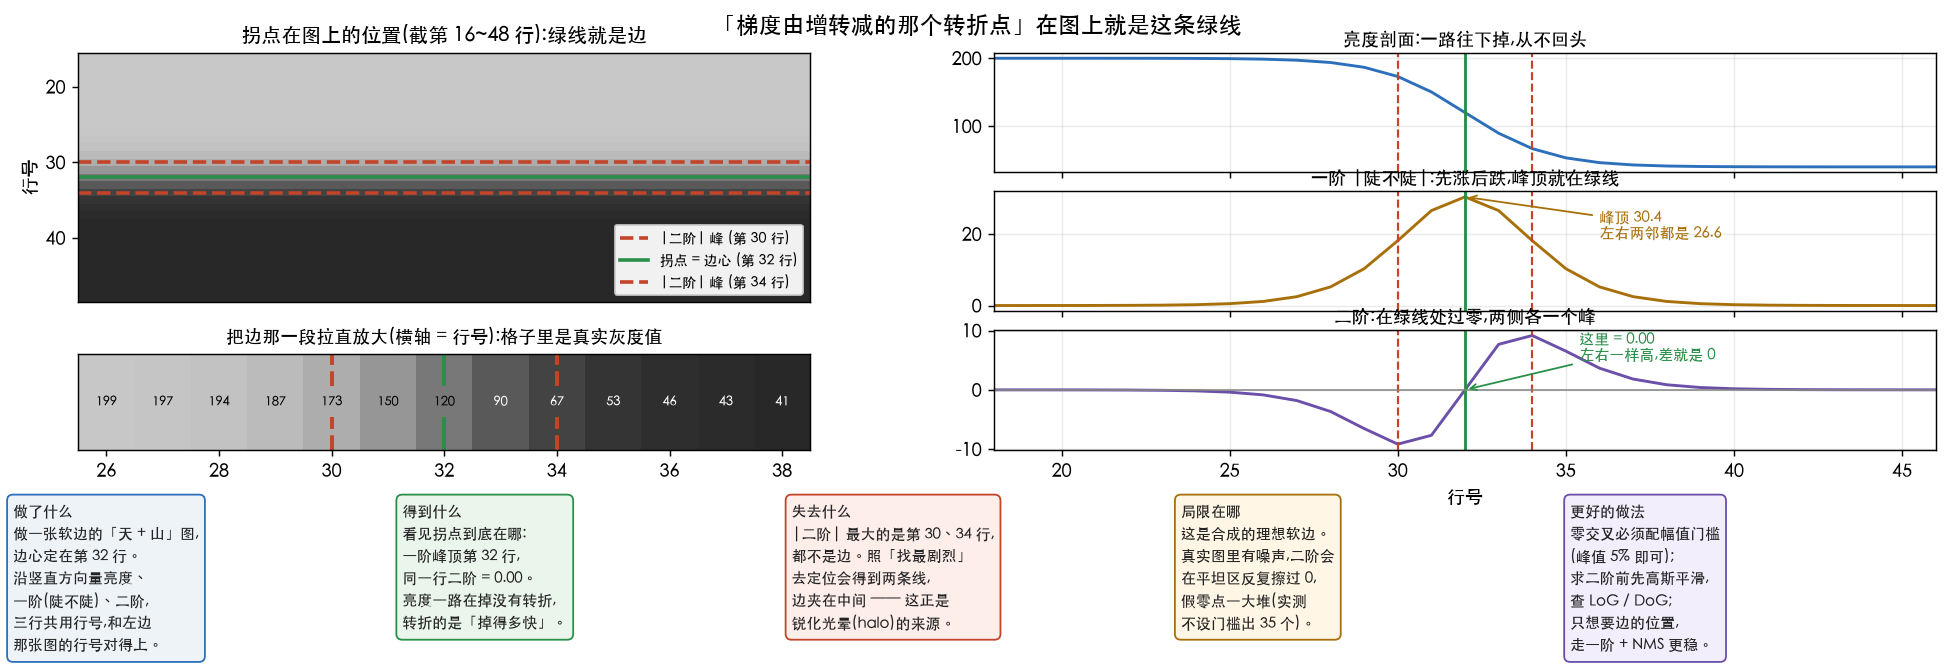
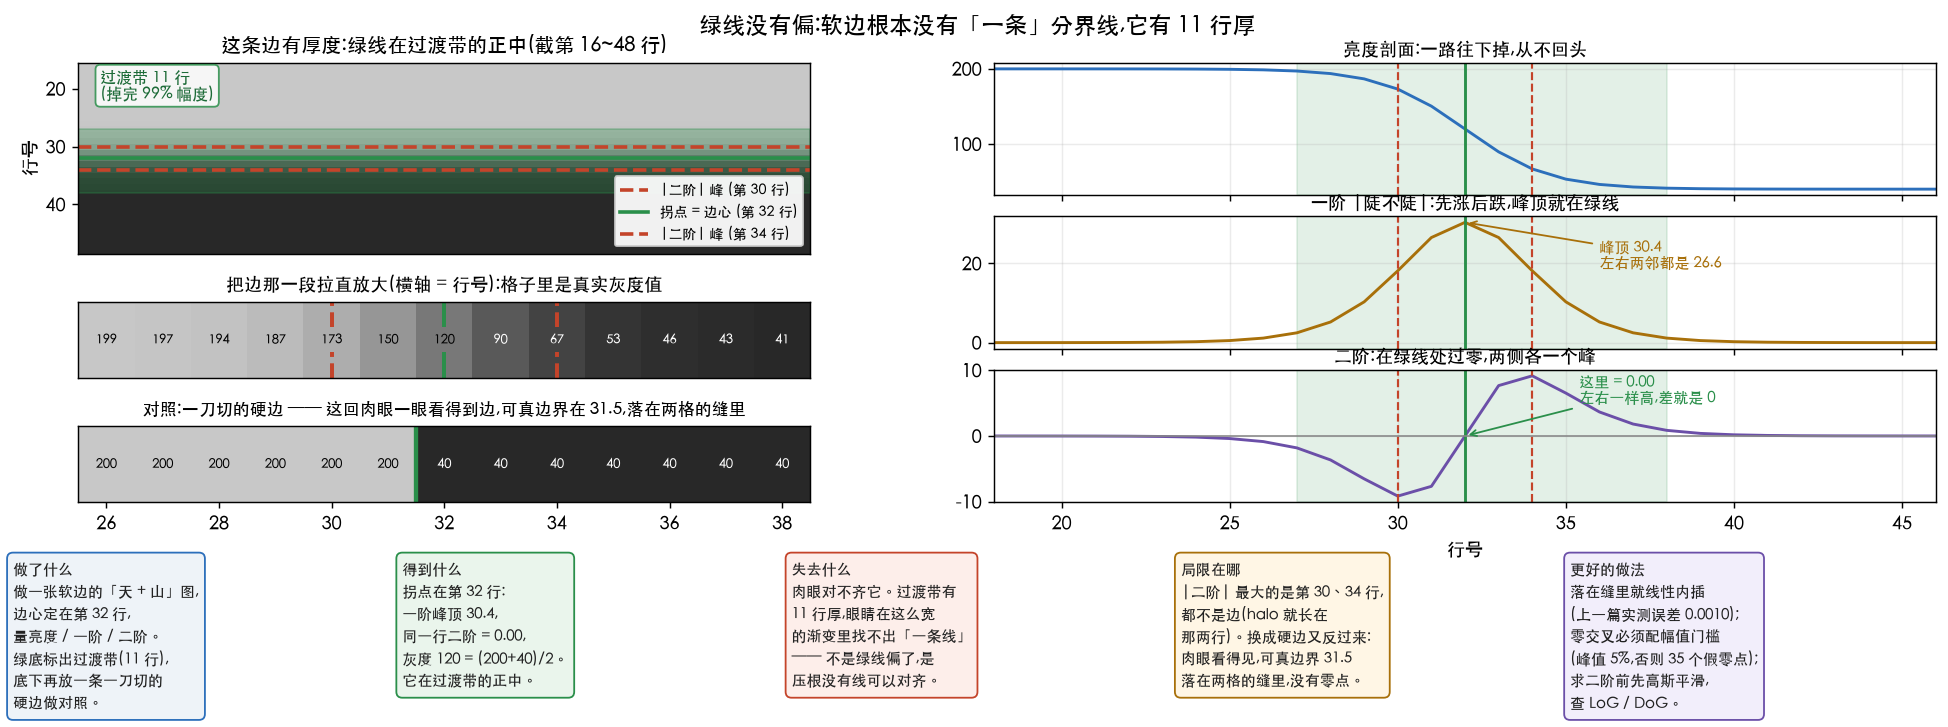
把过渡带画出来:绿线没偏,是软边根本没有「一条」分界线
上一版配图把拐点画成孤零零一条绿线,看图的人会觉得它没压在明暗交界上。
量了一下:这条边掉完 99% 幅度要从第 27 行到第 38 行,共 11 行厚。
眼睛在 11 行宽的渐变里找不出「一条线」—— 不是绿线偏了,是没有线可以对齐。
数值上它没错:(200+40)/2 = 120,第 32 行灰度正好 120.0。

配图改动:
- 2D 图和三行剖面都用绿底标出过渡带,绿线显然在带的正中
- 底下加一条一刀切的硬边做对照,绿线精确压在 200|40 那道缝上
- 软边条去掉 x 刻度(会撞上硬边条的标题),两条对齐共用下面那组

顺带记下一个被实测推翻的猜测:原以为是人眼感知非线性造成的偏移,
按 CIE L* 算感知中点也落在第 32 行,偏 0 行。不是感知问题,写进文档免得再走。

由此带出一张互补表:软边肉眼看不出、零点却精确落格;硬边肉眼一眼看见、
真边界 31.5 却落在两格的缝里没有零点 —— 所以零交叉必须带线性内插。

diff --git a/Python-Prototyping/Ch03_Spatial_Filtering/23_sharpening.py b/Python-Prototyping/Ch03_Spatial_Filtering/23_sharpening.py
@@ -648,6 +648,24 @@ def inflection_stats():
     return col, g1, g2, infl, lo, hi
 
 
+def transition_band(col, pct: float = 0.99):
+    """边的「过渡带」有多宽 —— 掉完 pct 的幅度用了从第几行到第几行。
+
+    为什么要算这个:软边根本没有肉眼可辨的「一条线」,
+    有的是一条带。不把带画出来,单画一条拐点线会让人觉得「它没对齐」。
+    """
+    hi, lo = col.max(), col.min()
+    span = hi - lo
+    a = int(np.argmax(col < hi - span * (1 - pct)))
+    b = int(np.argmax(col < lo + span * (1 - pct)))
+    return a, b
+
+
+def hard_edge_column(n: int = 64):
+    """一刀切的硬边,跳变发生在第 31 行和第 32 行之间 —— 真边界在 31.5。"""
+    return np.where(np.arange(n) < EDGE_CENTER, 200.0, 40.0)
+
+
 def demo_inflection() -> None:
     hr("2d. 拐点在哪儿:一阶最陡的那一格,正是二阶过零的那一格")
     col, g1, g2, infl, lo, hi = inflection_stats()
@@ -667,6 +685,25 @@ def demo_inflection() -> None:
     print(f"\n  |二阶| 的两个峰在第 {lo} 行和第 {hi} 行,中点 = {(lo + hi) / 2:.1f}")
     print(f"  —— 锐化时被推得最狠的就是这两行,光晕(halo)长在离边心各 {infl - lo} 格的地方。")
 
+    print("\n  这条边根本没有「一条线」,它有厚度:")
+    for pct in (0.90, 0.95, 0.99):
+        a, b = transition_band(col, pct)
+        print(f"    掉完 {pct:.0%} 幅度 → 第 {a} 行到第 {b} 行,共 {b - a} 行")
+    a99, b99 = transition_band(col, 0.99)
+    print(f"  肉眼要在 {b99 - a99} 行宽的渐变里找「分界」,本来就找不到 ——")
+    print("  拐点在带的正中,但带太宽,中心不显眼。数值上它没错:")
+    print(f"    (200+40)/2 = 120.0 → 第 {int(np.argmin(np.abs(col - 120)))} 行,该行灰度 {col[infl]:.1f}")
+
+    print("\n  换成一刀切的硬边,肉眼立刻找得到边,可零点反而没落在格子上:")
+    hard = hard_edge_column()
+    h1, h2 = d1d(hard, [-0.5, 0, 0.5]), d1d(hard, [1, -2, 1])
+    print(f"    {'行':>6} | {'亮度':>7} | {'一阶':>8} | {'二阶':>9}")
+    for i in range(int(EDGE_CENTER) - 2, int(EDGE_CENTER) + 2):
+        print(f"    {i:>6} | {hard[i]:>7.1f} | {h1[i]:>8.2f} | {h2[i]:>9.2f}")
+    print(f"  二阶从 {h2[int(EDGE_CENTER)-1]:.0f} 直接跳到 {h2[int(EDGE_CENTER)]:.0f},中间没有 0 ——")
+    print(f"  真边界在 {EDGE_CENTER - 0.5},落在两格的缝里,只能靠内插找回来。")
+    print("  **肉眼能对齐的边,算法要内插;算法能精确落点的边,肉眼反而看不出。**")
+
 
 def save_inflection_figure(out_path: Path) -> None:
     """回答「拐点到底在图上哪个位置」—— 2D 图和剖面画在一起,行号对得上。"""
@@ -674,12 +711,14 @@ def save_inflection_figure(out_path: Path) -> None:
     img = sky_mountain_2d()
     n = img.shape[0]
 
-    fig = plt.figure(figsize=(15.2, 5.6))
+    a99, b99 = transition_band(col, 0.99)
+    hard = hard_edge_column(n)
+    fig = plt.figure(figsize=(15.2, 6.2))
     # bottom 要在这儿给死:显式设过边界的 gridspec 不吃 four_questions 里的
     # subplots_adjust,不给的话图和横幅之间会空出一大条
     outer = fig.add_gridspec(1, 2, width_ratios=[1.05, 1.35], wspace=0.22,
                              left=0.045, right=0.985, top=0.90, bottom=0.355)
-    gl = outer[0, 0].subgridspec(2, 1, hspace=0.30, height_ratios=[2.6, 1])
+    gl = outer[0, 0].subgridspec(3, 1, hspace=0.42, height_ratios=[2.5, 1, 1])
     gr = outer[0, 1].subgridspec(3, 1, hspace=0.16)
 
     ax = fig.add_subplot(gl[0])
@@ -692,7 +731,12 @@ def save_inflection_figure(out_path: Path) -> None:
                           (infl, "#2a8f4a", "-", f"拐点 = 边心 (第 {infl} 行)"),
                           (hi, "#c4442a", "--", f"|二阶| 峰 (第 {hi} 行)")):
         ax.axhline(y, color=c, ls=ls, lw=2.0, label=lab)
-    ax.set_title(f"拐点在图上的位置(截第 {top}~{bot - 1} 行):绿线就是边", fontsize=11)
+    ax.axhspan(a99, b99, color="#2a8f4a", alpha=0.30, zorder=0)
+    ax.annotate(f"过渡带 {b99 - a99} 行\n(掉完 99% 幅度)", xy=(0.03, 0.88),
+                xycoords="axes fraction", fontsize=8.6, color="#1d6b38",
+                va="center", ha="left",
+                bbox=dict(boxstyle="round,pad=0.3", fc="white", ec="#2a8f4a", alpha=0.85))
+    ax.set_title(f"这条边有厚度:绿线在过渡带的正中(截第 {top}~{bot - 1} 行)", fontsize=11)
     ax.set_ylabel("行号")
     ax.set_xticks([])
     ax.legend(fontsize=7.8, loc="lower right", framealpha=0.94)
@@ -710,9 +754,22 @@ def save_inflection_figure(out_path: Path) -> None:
         axz.text(i, 0.5, f"{col[i]:.0f}", ha="center", va="center", fontsize=7.2,
                  color="black" if col[i] > 110 else "white")
     axz.set_yticks([])
-    axz.set_xticks(range(lo_z, hi_z, 2))
+    axz.set_xticks([])
     # xlabel 会被底部横幅压住,横轴含义写进标题
     axz.set_title("把边那一段拉直放大(横轴 = 行号):格子里是真实灰度值", fontsize=10)
+
+    axh = fig.add_subplot(gl[2])
+    axh.imshow(hard[lo_z:hi_z][None, :], cmap="gray", vmin=0, vmax=255,
+               interpolation="nearest", aspect="auto",
+               extent=(lo_z - 0.5, hi_z - 0.5, 0, 1))
+    axh.axvline(EDGE_CENTER - 0.5, color="#2a8f4a", lw=2.4)
+    for i in range(lo_z, hi_z):
+        axh.text(i, 0.5, f"{hard[i]:.0f}", ha="center", va="center", fontsize=7.2,
+                 color="black" if hard[i] > 110 else "white")
+    axh.set_yticks([])
+    axh.set_xticks(range(lo_z, hi_z, 2))
+    axh.set_title("对照:一刀切的硬边 —— 这回肉眼一眼看得到边,"
+                  f"可真边界在 {EDGE_CENTER - 0.5},落在两格的缝里", fontsize=9.6)
 
     x = np.arange(n)
     rows = [(col, "亮度剖面:一路往下掉,从不回头", "#2c6fbb"),
@@ -721,6 +778,7 @@ def save_inflection_figure(out_path: Path) -> None:
     axes = [fig.add_subplot(gr[i]) for i in range(3)]
     for k, (ax_, (data, title, color)) in enumerate(zip(axes, rows)):
         ax_.plot(x, data, color=color, lw=1.6)
+        ax_.axvspan(a99, b99, color="#2a8f4a", alpha=0.13, zorder=0)
         ax_.axvline(infl, color="#2a8f4a", lw=1.6)
         for y in (lo, hi):
             ax_.axvline(y, color="#c4442a", ls="--", lw=1.2)
@@ -742,33 +800,28 @@ def save_inflection_figure(out_path: Path) -> None:
                      fontsize=8.4, color="#2a8f4a",
                      arrowprops=dict(arrowstyle="->", color="#2a8f4a", lw=1.0))
 
-    fig.suptitle("「梯度由增转减的那个转折点」在图上就是这条绿线", fontsize=13, y=0.955)
+    fig.suptitle("绿线没有偏:软边根本没有「一条」分界线,它有 "
+                 f"{b99 - a99} 行厚", fontsize=13, y=0.962)
     four_questions(fig,
         "做一张软边的「天 + 山」图,\n"
-        f"边心定在第 {infl} 行。\n"
-        "沿竖直方向量亮度、\n一阶(陡不陡)、二阶,\n"
-        "三行共用行号,和左边\n那张图的行号对得上。",
-        "看见拐点到底在哪:\n"
-        f"一阶峰顶第 {infl} 行,\n"
-        f"同一行二阶 = {g2[infl]:.2f}。\n"
-        "亮度一路在掉没有转折,\n"
-        "**转折的是「掉得多快」**。",
+        f"边心定在第 {infl} 行,\n"
+        "量亮度 / 一阶 / 二阶。\n"
+        f"绿底标出过渡带({b99 - a99} 行),\n"
+        "底下再放一条一刀切的\n硬边做对照。",
+        f"拐点在第 {infl} 行:\n"
+        f"一阶峰顶 {abs(g1[infl]):.1f},\n"
+        f"同一行二阶 = {g2[infl]:.2f},\n"
+        f"灰度 {col[infl]:.0f} = (200+40)/2。\n"
+        "**它在过渡带的正中**。",
+        f"肉眼对不齐它。过渡带有\n{b99 - a99} 行厚,"
+        "眼睛在这么宽\n的渐变里找不出「一条线」\n—— "
+        "**不是绿线偏了,是\n压根没有线可以对齐**。",
         f"|二阶| 最大的是第 {lo}、{hi} 行,\n"
-        "**都不是边**。照「找最剧烈」\n"
-        "去定位会得到两条线,\n"
-        "边夹在中间 —— 这正是\n"
-        "锐化光晕(halo)的来源。",
-        "这是合成的理想软边。\n"
-        "真实图里有噪声,二阶会\n"
-        "在平坦区反复擦过 0,\n"
-        "**假零点一大堆**(实测\n"
-        "不设门槛出 35 个)。",
-        "零交叉必须配幅值门槛\n"
-        "(峰值 5% 即可);\n"
-        "求二阶前先高斯平滑,\n"
-        "查 LoG / DoG;\n"
-        "只想要边的位置,\n"
-        "走一阶 + NMS 更稳。",
+        "**都不是边**(halo 就长在\n那两行)。换成硬边又反过来:\n"
+        f"肉眼看得见,可真边界 {EDGE_CENTER - 0.5}\n落在两格的缝里,没有零点。",
+        "落在缝里就线性内插\n(上一篇实测误差 0.0010);\n"
+        "零交叉必须配幅值门槛\n(峰值 5%,否则 35 个假零点);\n"
+        "求二阶前先高斯平滑,\n查 LoG / DoG。",
         y=0.285, bottom=0.355)
     fig.savefig(out_path, dpi=130, bbox_inches="tight", facecolor="white")
     plt.close(fig)

diff --git a/Documents/05-spatial-filtering/03-sharpening.md b/Documents/05-spatial-filtering/03-sharpening.md
@@ -14,7 +14,7 @@
 > | :--- | :--- |
 > | **只有 10 分钟** | `先讲人话` + `八、小结` |
 > | **第一遍学** | 再加 `一、先看懂两个导数` `二、拉普拉斯` `三、USM(反锐化掩模)` `六、代价二:放大噪声`(先降噪再锐化) —— 锐化的道理和最重要的那条实践规矩 |
-> | **对着图有疑问** | `一、先看懂两个导数` 里的 `一阶根本不看「自己那一格」` `核中间为什么是 0`;`二、拉普拉斯` 里的 `它响应最强的地方,恰恰不是边` |
+> | **对着图有疑问** | `一、先看懂两个导数` 里的 `一阶根本不看「自己那一格」` `核中间为什么是 0`;`二、拉普拉斯` 里的 `它响应最强的地方,恰恰不是边` `绿线看着没对齐?` |
 | **想知道核哪来的** | `二、拉普拉斯` 里的 `这个核不是设计出来的` `为什么二阶能直接相加,一阶不行` `−8 那个版本其实有点糙` |
 > | **踩坑时回来查** | `四、USM 和拉普拉斯是一回事` `五、代价一:过冲(halo)` `七、一阶导数:Sobel 梯度` —— 第七节等学到边缘检测时再看也行 |
 
@@ -393,6 +393,55 @@ c = −(a + b) = −(−b + b) = 0
 | 看**零点** | 边的正中(第 32 行) | 定位 —— 零交叉检测 |
 
 **一个算子,两种读法,读错了位置就偏半格。**
+
+### 绿线看着没对齐?那条边有 11 行厚
+
+对着上面那张图,很容易冒出一个疑问:**绿线画在第 32 行,可图上的明暗交界好像不在那儿。**
+
+这不是错觉,但也不是绿线偏了。量一量那条边有多厚:
+
+| 掉完多少幅度 | 从第几行到第几行 | 共几行 |
+| :--- | :--- | ---: |
+| 90% | 30 → 35 | 5 行 |
+| 95% | 29 → 36 | 7 行 |
+| **99%** | **27 → 38** | **11 行** |
+
+**这条边有 11 行厚。** 你的眼睛在一条 11 行宽的渐变里找「分界线」,
+本来就找不到 —— **不是绿线偏了,是压根没有一条线可以让它对齐。**
+
+数值上它一点没错:`(200 + 40) / 2 = 120`,而第 32 行的灰度正好是 **120.0**。
+
+> **一个被实测推翻的猜测**:我本来怀疑是人眼感知非线性(暗部被压缩)造成的偏移。
+> 按 CIE L\* 算了一遍:天 L\*=80.6、山 L\*=16.1,感知中点 L\*=48.4 —— **也落在第 32 行,偏 0 行**。
+> **不是感知的问题,就是过渡带太宽。** 记在这儿免得别人再往这条路上走。
+
+### 反过来,硬边肉眼看得见,零点却落在缝里
+
+同样的算法,把边换成一刀切(第 31 行还是 200,第 32 行直接 40):
+
+| 行 | 亮度 | 一阶 | 二阶 |
+| ---: | ---: | ---: | ---: |
+| 30 | 200.0 | 0.00 | 0.00 |
+| 31 | 200.0 | −80.00 | **−160.00** |
+| 32 | 40.0 | −80.00 | **+160.00** |
+| 33 | 40.0 | 0.00 | 0.00 |
+
+这回肉眼一眼就能指出边在哪。**但二阶从 −160 直接跳到 +160,中间没有 0** ——
+真边界在 **31.5**,落在两格的**缝里**,没有哪一格的二阶是 0。
+
+于是有了这张互补表:
+
+| | 肉眼能看出边吗 | 零点落在哪 |
+| :--- | :--- | :--- |
+| **软边**(有过渡) | ✗ 看不出,是一条 11 行宽的带 | ✓ 精确落在第 32 行 |
+| **硬边**(一刀切) | ✓ 一眼就是那道缝 | ✗ 落在 31 和 32 的缝里,没有零点 |
+
+> **你肉眼能对齐的那种边,算法反而得靠内插;
+> 算法能精确落点的那种边,你肉眼反而看不出。**
+
+真实图像里两种都有,所以零交叉检测必须带**线性内插** ——
+[04-edge-detection.md](04-edge-detection.md) 里那组「蓝天 + 黑山」的真边界是 59.5,
+就是靠 `59 + 129.49/(129.49+130.00)` 内插回 **59.4990**,误差 0.0010。
 零交叉那条路怎么走(以及必须配的幅值门槛),见
 [04-edge-detection.md](04-edge-detection.md) 第二节。
 
@@ -634,6 +683,7 @@ $$ |\nabla f| = \sqrt{g_x^2 + g_y^2} \quad\text{或者}\quad |g_x| + |g_y| $$
 | −8 和 −6 哪个对 | −6 才折算了对角线的 √2 步长;**−8 不是更准是更猛**(各向同性 9.75% vs 7.92%) |
 | 拉普拉斯的核为什么和为 0 | 平坦区输出 0,只对「不平」有反应 |
 | 它响应最强的地方是边吗 | **不是**。强响应在边两侧各一条,**边在中间的零点上**(halo 就长在那两条上) |
+| 为什么图上看不出边在哪一行 | 软边有厚度(实测 11 行)。**肉眼能对齐的边算法要内插,算法能精确落点的边肉眼看不出** |
 | 经典锐化核哪来的 | **单位核 − 拉普拉斯** = `[[0,-1,0],[-1,5,-1],[0,-1,0]]`,和为 1 |
 | 符号怎么自检 | 合成出的锐化核,中心必须是正的大数、周围是负数 |
 | USM 三步 | 模糊 → 原图减模糊 = 细节 → 把细节按 k 倍加回去 |
